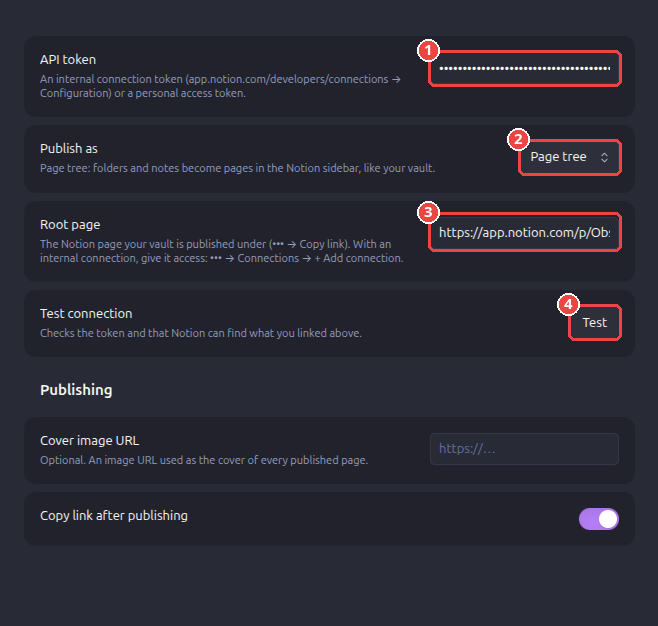
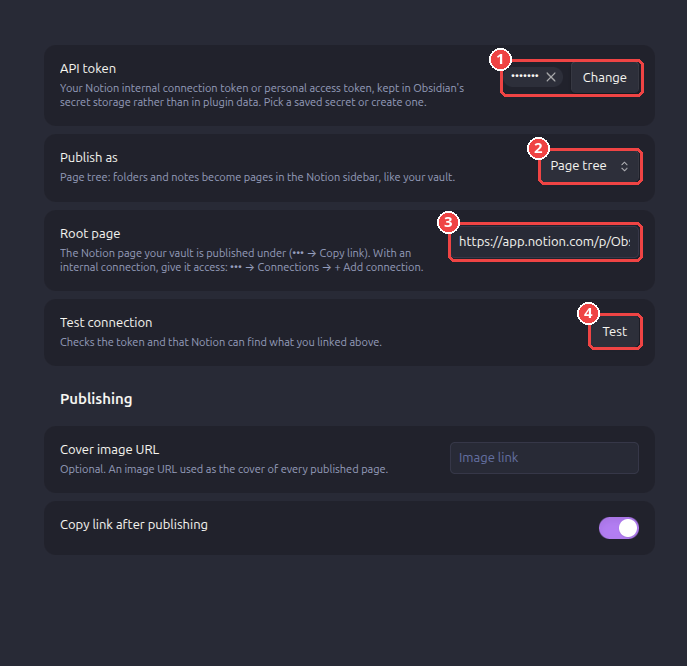
Add the settings screenshot with the secret picker to the README

diff --git a/README.md b/README.md
@@ -239,13 +239,16 @@ any Notion link, including older `notion.so` links.
 
 Open **Settings → Vault to Notion**:
 
-1. In **API token** ①, create a secret holding your token (or pick one you saved before).
+1. In **API token** ①, click **Change** and create a secret holding your token (or pick one
+   you saved before).
    Obsidian keeps it in its [secret storage](https://docs.obsidian.md/plugins/guides/secret-storage),
    not in the plugin's settings file, and other plugins can reuse the same secret.
 2. Choose **Publish as** ②: *Page tree* or *Database*.
 3. Paste the link from step 3 into **Root page** ③ (page tree) or **Database** (database).
 4. Click **Test** ④. You should see *Connected to "Obsidian Vault"*. If not, the message
    explains what to fix — see also [Troubleshooting](#troubleshooting).
+
+![Vault to Notion settings in Obsidian](docs/images/obsidian-settings.png)
 
 In *Database* mode, a **Columns** section with the tag and folder options appears below
 **Test connection**.
